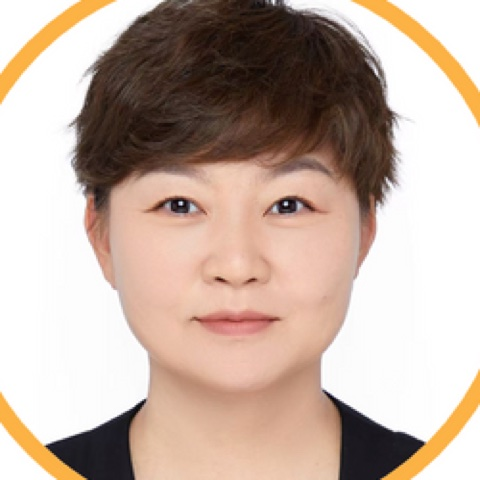
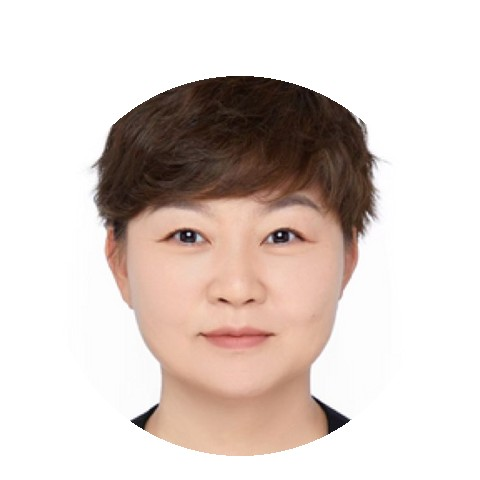
Leadership: portraits sit lower in frame, bios and personal emails updated

diff --git a/dist/company/leadership.html b/dist/company/leadership.html
@@ -1,1 +1,1 @@
-<!DOCTYPE html><html lang="en"><head><meta charset="utf-8"><meta name="viewport" content="width=device-width, initial-scale=1"><title>Leadership | NextGenergy – Prefabricated liquid cooling and field services for AI data centres</title><meta name="description" content="The people responsible for NextGenergy's work."><link rel="canonical" href="https://nextgenergy.ai/company/leadership"><!-- Google Analytics 4 with Consent Mode: analytics storage denied until the visitor accepts (see /google-analytics.js and /company/privacy) --><link rel="stylesheet" href="/google-analytics.css"><script src="/google-analytics.js"></script><script async src="https://www.googletagmanager.com/gtag/js?id=G-SQ8WX1BMRW"></script><link rel="icon" href="/favicon.png" type="image/png"><link rel="apple-touch-icon" href="/brand/emblem-512.png"><meta property="og:image" content="/brand/emblem-512.png"><link rel="alternate" type="application/rss+xml" title="NextGenergy Insights" href="/insights/rss.xml"><meta property="og:site_name" content="NextGenergy"><meta property="og:title" content="Leadership | NextGenergy – Prefabricated liquid cooling and field services for AI data centres"><meta property="og:description" content="The people responsible for NextGenergy's work."><meta property="og:type" content="website"><meta property="og:url" content="https://nextgenergy.ai/company/leadership"><meta name="twitter:card" content="summary_large_image"><script type="application/ld+json">{"@context":"https://schema.org","@graph":[{"@type":"Organization","@id":"https://nextgenergy.ai/#org","name":"NextGenergy","legalName":"NextGenergy Technology Inc.","url":"https://nextgenergy.ai/","logo":"https://nextgenergy.ai/brand/emblem-512.png","description":"Prefabricated Liquid Cooling and Field Services for AI Data Centres","foundingDate":"2025","address":{"@type":"PostalAddress","addressLocality":"Toronto","addressRegion":"ON","addressCountry":"CA"},"email":"sales@nextgenergy.ai","founder":{"@type":"Person","name":"Jim Li","jobTitle":"Founder & CEO","sameAs":["https://www.linkedin.com/in/junming-li-liquid-cooling/"]},"sameAs":["https://www.linkedin.com/company/nextgenergy","https://everywattcounts.substack.com","https://tsingchain.ai"],"knowsAbout":["liquid cooling","direct-to-chip cooling","coolant distribution unit","data centre heat reuse","return-water grade","commissioning"]},{"@type":"WebSite","@id":"https://nextgenergy.ai/#website","url":"https://nextgenergy.ai/","name":"NextGenergy","publisher":{"@id":"https://nextgenergy.ai/#org"},"inLanguage":"en"},{"@type":"WebPage","@id":"https://nextgenergy.ai/company/leadership","url":"https://nextgenergy.ai/company/leadership","name":"Leadership | NextGenergy – Prefabricated liquid cooling and field services for AI data centres","description":"The people responsible for NextGenergy's work.","isPartOf":{"@id":"https://nextgenergy.ai/#website"},"inLanguage":"en"},{"@type":"Person","@id":"https://nextgenergy.ai/company/leadership#jim-li","name":"Jim Li","jobTitle":"Founder & Chief Executive Officer","description":"Jim founded NextGenergy to move AI data centres beyond single-point equipment optimisation toward integrated system design across power, liquid cooling and heat recovery. He is co-founder and vice president of Tsingchain Technology (Beijing), where he built and operated immersion and direct-to-chip liquid-cooled compute whose recovered heat was delivered into district heating, greenhouses and aquaculture. Earlier he was a senior product manager at Baidu. He holds an MBA and a bachelor's degree in international economics and trade, writes Every Watt Counts, reviews open liquid-cooling specifications, and is the author of the three-clock model and the ten leak points.","worksFor":{"@id":"https://nextgenergy.ai/#org"},"image":"https://nextgenergy.ai/team/jim-li.jpg","sameAs":["https://www.linkedin.com/in/junming-li-liquid-cooling/"],"url":"https://nextgenergy.ai/company/leadership"},{"@type":"Person","@id":"https://nextgenergy.ai/company/leadership#chenli-wang","name":"Chenli Wang","jobTitle":"Chief Strategy Officer","description":"Chenli leads strategy, partnerships and commercial operations, including the off-take side of heat-reuse projects: identifying heat buyers, structuring supply agreements and aligning them with the return-water grade the plant is designed for. She brings nineteen years of general and operational management, most recently in enterprise IT product management at Anhui Shangxin Information Technology, and holds an MBA.","worksFor":{"@id":"https://nextgenergy.ai/#org"},"image":"https://nextgenergy.ai/team/chenli-wang.jpg","url":"https://nextgenergy.ai/company/leadership"},{"@type":"Person","@id":"https://nextgenergy.ai/company/leadership#richard-li","name":"Richard Li","jobTitle":"Chief Business Development Officer","description":"Richard leads business development: the operator, developer and channel relationships behind NextGenergy's North American projects, and the qualification of the ones where the whole thermal path — not a single component — is what the customer actually needs. He brings twenty-five years of business development and IT management, including head of the AI business unit at NXAI, sales director at VideoSky and country manager for Vidyo in China. He holds a bachelor's degree in automation and control.","worksFor":{"@id":"https://nextgenergy.ai/#org"},"image":"https://nextgenergy.ai/team/richard-li.jpg","url":"https://nextgenergy.ai/company/leadership"},{"@type":"Person","@id":"https://nextgenergy.ai/company/leadership#hui-wang","name":"Hui Wang","jobTitle":"Technical Director","description":"Hui is responsible for the engineering judgement behind NextGenergy's thermal designs: coolant selection, approach temperature and the boundaries between cold plate, CDU and facility water. He founded Tsingchain Technology (Beijing) in 2018, among the earliest Chinese companies to commercialise server liquid cooling, and chairs it today. He is a named inventor on a utility model patent for a server liquid-cooling cabinet and led the research behind three more, covering scalable liquid-cooled containers, heat-dissipation cabinets and modular cooling systems. At Tsingchain he directed the development of immersion and direct-to-chip systems and the waste-heat programme that routed recovered heat into district heating, greenhouses and aquaculture. He writes on liquid cooling for the data centre industry and holds an M.S. in agricultural soil and water engineering from Shenyang Agricultural University.","worksFor":{"@id":"https://nextgenergy.ai/#org"},"image":"https://nextgenergy.ai/team/hui-wang.jpg","url":"https://nextgenergy.ai/company/leadership"}]}</script><link rel="stylesheet" href="/_astro/Base.v_1ulaOs.css"><link rel="stylesheet" href="/_astro/leadership.CnbI60Xh.css"></head><body><a class="skip" href="#main">Skip to main content</a><header class="hdr"><div class="wrap"><a href="/" class="brand" aria-label="NextGenergy home"><img src="/brand/logo.png" alt="NextGenergy" width="1380" height="470"></a><nav class="nav" aria-label="Primary"><a href="/platform">Products</a><a href="/services">Field services</a><a href="/solutions">Solutions</a><a href="/evidence" class="star">Evidence</a><a href="/approach">Approach</a><a href="/tools">Tools</a><a href="/insights">Insights</a><a href="/company/about" aria-current="page">Company</a></nav><a href="/company/contact" class="btn hdr-cta">Talk to our team</a><button class="menu-btn" aria-expanded="false" aria-controls="mnav" data-menu>Menu</button></div><div class="mnav" id="mnav"><div class="wrap"><a href="/platform">Products</a><a href="/services">Field services</a><a href="/solutions">Solutions</a><a href="/evidence" class="star">Evidence</a><a href="/approach">Approach</a><a href="/tools">Tools</a><a href="/insights">Insights</a><a href="/company/about">Company</a><a href="/company/contact">Contact</a></div></div></header><script type="module" src="/_astro/Header.astro_astro_type_script_index_0_lang.DnShHzzy.js"></script><noscript><div class="noscript wrap">This site works without JavaScript except for the interactive tools, the video player and the mobile menu. Navigation links are in the footer.</div></noscript><main id="main" tabindex="-1"><section class="hero"><div class="wrap"><nav class="crumbs" aria-label="Breadcrumb"><a href="/">Home</a><span><a href="/company/about">Company</a></span></nav><div class="eyebrow">Company</div><h1>Leadership</h1><p class="lede">The people responsible for NextGenergy&#39;s work.</p></div></section><section class="section" data-astro-cid-b366cx2r><div class="wrap" data-astro-cid-b366cx2r><article class="person" data-astro-cid-b366cx2r><div class="photo" data-astro-cid-b366cx2r><img src="/team/jim-li.jpg" alt="Portrait of Jim Li" width="480" height="480" loading="eager" data-astro-cid-b366cx2r></div><div data-astro-cid-b366cx2r><h2 style="margin-bottom:0.2rem" data-astro-cid-b366cx2r>Jim Li</h2><p class="eyebrow plain" style="margin:0 0 1rem" data-astro-cid-b366cx2r>Founder &amp; Chief Executive Officer</p><p class="prose" data-astro-cid-b366cx2r>Jim founded NextGenergy to move AI data centres beyond single-point equipment optimisation toward integrated system design across power, liquid cooling and heat recovery. He is co-founder and vice president of Tsingchain Technology (Beijing), where he built and operated immersion and direct-to-chip liquid-cooled compute whose recovered heat was delivered into district heating, greenhouses and aquaculture. Earlier he was a senior product manager at Baidu. He holds an MBA and a bachelor&#39;s degree in international economics and trade, writes Every Watt Counts, reviews open liquid-cooling specifications, and is the author of the three-clock model and the ten leak points.</p><p data-astro-cid-b366cx2r><a href="https://www.linkedin.com/in/junming-li-liquid-cooling/" data-astro-cid-b366cx2r>LinkedIn</a> · <a href="https://everywattcounts.substack.com" data-astro-cid-b366cx2r>Every Watt Counts</a> · <a href="mailto:sales@nextgenergy.ai" data-astro-cid-b366cx2r>sales@nextgenergy.ai</a></p></div></article><article class="person" data-astro-cid-b366cx2r><div class="photo" data-astro-cid-b366cx2r><img src="/team/chenli-wang.jpg" alt="Portrait of Chenli Wang" width="480" height="480" loading="eager" data-astro-cid-b366cx2r></div><div data-astro-cid-b366cx2r><h2 style="margin-bottom:0.2rem" data-astro-cid-b366cx2r>Chenli Wang</h2><p class="eyebrow plain" style="margin:0 0 1rem" data-astro-cid-b366cx2r>Chief Strategy Officer</p><p class="prose" data-astro-cid-b366cx2r>Chenli leads strategy, partnerships and commercial operations, including the off-take side of heat-reuse projects: identifying heat buyers, structuring supply agreements and aligning them with the return-water grade the plant is designed for. She brings nineteen years of general and operational management, most recently in enterprise IT product management at Anhui Shangxin Information Technology, and holds an MBA.</p></div></article><article class="person" data-astro-cid-b366cx2r><div class="photo" data-astro-cid-b366cx2r><img src="/team/richard-li.jpg" alt="Portrait of Richard Li" width="480" height="480" loading="eager" data-astro-cid-b366cx2r></div><div data-astro-cid-b366cx2r><h2 style="margin-bottom:0.2rem" data-astro-cid-b366cx2r>Richard Li</h2><p class="eyebrow plain" style="margin:0 0 1rem" data-astro-cid-b366cx2r>Chief Business Development Officer</p><p class="prose" data-astro-cid-b366cx2r>Richard leads business development: the operator, developer and channel relationships behind NextGenergy&#39;s North American projects, and the qualification of the ones where the whole thermal path — not a single component — is what the customer actually needs. He brings twenty-five years of business development and IT management, including head of the AI business unit at NXAI, sales director at VideoSky and country manager for Vidyo in China. He holds a bachelor&#39;s degree in automation and control.</p></div></article><article class="person" data-astro-cid-b366cx2r><div class="photo" data-astro-cid-b366cx2r><img src="/team/hui-wang.jpg" alt="Portrait of Hui Wang" width="480" height="480" loading="eager" data-astro-cid-b366cx2r></div><div data-astro-cid-b366cx2r><h2 style="margin-bottom:0.2rem" data-astro-cid-b366cx2r>Hui Wang</h2><p class="eyebrow plain" style="margin:0 0 1rem" data-astro-cid-b366cx2r>Technical Director</p><p class="prose" data-astro-cid-b366cx2r>Hui is responsible for the engineering judgement behind NextGenergy&#39;s thermal designs: coolant selection, approach temperature and the boundaries between cold plate, CDU and facility water. He founded Tsingchain Technology (Beijing) in 2018, among the earliest Chinese companies to commercialise server liquid cooling, and chairs it today. He is a named inventor on a utility model patent for a server liquid-cooling cabinet and led the research behind three more, covering scalable liquid-cooled containers, heat-dissipation cabinets and modular cooling systems. At Tsingchain he directed the development of immersion and direct-to-chip systems and the waste-heat programme that routed recovered heat into district heating, greenhouses and aquaculture. He writes on liquid cooling for the data centre industry and holds an M.S. in agricultural soil and water engineering from Shenyang Agricultural University.</p></div></article></div></section></main><footer class="ftr"><div class="wrap"><div class="cols"><div><a href="/" class="brand"><img src="/brand/logo.png" alt="NextGenergy" width="1380" height="470"></a><p style="margin-top:1rem; max-width: 34ch;">Prefabricated liquid cooling for AI data centres: we plan and design the system, deliver skids, CDUs, ORv3 racks and cooling plant, and test, commission and maintain the liquid loop in the field. Every boundary comes with its evidence.</p><p class="small">Toronto, Canada<br><a href="mailto:sales@nextgenergy.ai">sales@nextgenergy.ai</a></p><p class="small"><a href="https://www.linkedin.com/company/nextgenergy">LinkedIn</a> · <a href="https://everywattcounts.substack.com">Every Watt Counts</a> · <a href="/insights/rss.xml">RSS</a></p></div><div><h4>What we do</h4><ul><li><a href="/platform">Products: skids, racks, CDUs, cooling plant</a></li><li><a href="/services/field">Field testing and operations</a></li><li><a href="/solutions">Solutions by project type</a></li><li><a href="/approach">Our approach</a></li></ul></div><div><h4>Evidence</h4><ul><li><a href="/evidence/commissioning">Commissioning criteria</a></li><li><a href="/evidence/turnover">The turnover package</a></li><li><a href="/evidence/leak-points">Ten leak points</a></li><li><a href="/evidence/standards">Standards work</a></li><li><a href="/evidence/canada-principles">Canada&#39;s principles</a></li></ul></div><div><h4>Tools</h4><ul><li><a href="https://sim.nextgenergy.ai">Liquid cooling simulator</a></li><li><a href="/tools/return-water">Return-water → heat buyers</a></li><li><a href="/tools/approach-temp">Approach temperature</a></li><li><a href="/tools/leak-checklist">Turnover self-check</a></li></ul></div><div><h4>Company</h4><ul><li><a href="/company/about">About</a></li><li><a href="/company/leadership">Leadership</a></li><li><a href="/company/partners">Partners</a></li><li><a href="/company/contact">Contact</a></li><li><a href="/company/privacy">Privacy</a></li></ul></div></div><div class="legal"><span>© 2026 NextGenergy Technology Inc. All rights reserved.</span><span><a href="/company/privacy">Privacy</a> · <a href="/company/contact">Contact</a> · <a href="/insights/rss.xml">RSS</a></span></div></div></footer></body></html>
+<!DOCTYPE html><html lang="en"><head><meta charset="utf-8"><meta name="viewport" content="width=device-width, initial-scale=1"><title>Leadership | NextGenergy – Prefabricated liquid cooling and field services for AI data centres</title><meta name="description" content="The people responsible for NextGenergy's work."><link rel="canonical" href="https://nextgenergy.ai/company/leadership"><!-- Google Analytics 4 with Consent Mode: analytics storage denied until the visitor accepts (see /google-analytics.js and /company/privacy) --><link rel="stylesheet" href="/google-analytics.css"><script src="/google-analytics.js"></script><script async src="https://www.googletagmanager.com/gtag/js?id=G-SQ8WX1BMRW"></script><link rel="icon" href="/favicon.png" type="image/png"><link rel="apple-touch-icon" href="/brand/emblem-512.png"><meta property="og:image" content="/brand/emblem-512.png"><link rel="alternate" type="application/rss+xml" title="NextGenergy Insights" href="/insights/rss.xml"><meta property="og:site_name" content="NextGenergy"><meta property="og:title" content="Leadership | NextGenergy – Prefabricated liquid cooling and field services for AI data centres"><meta property="og:description" content="The people responsible for NextGenergy's work."><meta property="og:type" content="website"><meta property="og:url" content="https://nextgenergy.ai/company/leadership"><meta name="twitter:card" content="summary_large_image"><script type="application/ld+json">{"@context":"https://schema.org","@graph":[{"@type":"Organization","@id":"https://nextgenergy.ai/#org","name":"NextGenergy","legalName":"NextGenergy Technology Inc.","url":"https://nextgenergy.ai/","logo":"https://nextgenergy.ai/brand/emblem-512.png","description":"Prefabricated Liquid Cooling and Field Services for AI Data Centres","foundingDate":"2025","address":{"@type":"PostalAddress","addressLocality":"Toronto","addressRegion":"ON","addressCountry":"CA"},"email":"sales@nextgenergy.ai","founder":{"@type":"Person","name":"Jim Li","jobTitle":"Founder & CEO","sameAs":["https://www.linkedin.com/in/junming-li-liquid-cooling/"]},"sameAs":["https://www.linkedin.com/company/nextgenergy","https://everywattcounts.substack.com","https://tsingchain.ai"],"knowsAbout":["liquid cooling","direct-to-chip cooling","coolant distribution unit","data centre heat reuse","return-water grade","commissioning"]},{"@type":"WebSite","@id":"https://nextgenergy.ai/#website","url":"https://nextgenergy.ai/","name":"NextGenergy","publisher":{"@id":"https://nextgenergy.ai/#org"},"inLanguage":"en"},{"@type":"WebPage","@id":"https://nextgenergy.ai/company/leadership","url":"https://nextgenergy.ai/company/leadership","name":"Leadership | NextGenergy – Prefabricated liquid cooling and field services for AI data centres","description":"The people responsible for NextGenergy's work.","isPartOf":{"@id":"https://nextgenergy.ai/#website"},"inLanguage":"en"},{"@type":"Person","@id":"https://nextgenergy.ai/company/leadership#jim-li","name":"Jim Li","jobTitle":"Founder & Chief Executive Officer","description":"Jim founded NextGenergy to move AI data centres beyond single-point equipment optimisation toward integrated system design across power, liquid cooling and heat recovery. He is co-founder and vice president of Tsingchain Technology (Beijing), where he built and operated immersion and direct-to-chip liquid-cooled compute whose recovered heat was delivered into district heating, greenhouses and aquaculture. Earlier he was a senior product manager at Baidu. He holds an MBA and a bachelor's degree in international economics and trade, writes Every Watt Counts, reviews open liquid-cooling specifications, and is the author of the three-clock model and the ten leak points.","worksFor":{"@id":"https://nextgenergy.ai/#org"},"image":"https://nextgenergy.ai/team/jim-li.jpg","sameAs":["https://www.linkedin.com/in/junming-li-liquid-cooling/"],"url":"https://nextgenergy.ai/company/leadership"},{"@type":"Person","@id":"https://nextgenergy.ai/company/leadership#chenli-wang","name":"Chenli Wang","jobTitle":"Chief Strategy Officer","description":"Chenli leads strategy, partnerships and commercial operations, including the off-take side of heat-reuse projects: identifying heat buyers, structuring supply agreements and aligning them with the return-water grade the plant is designed for. She brings twenty years of general and operational management, most recently in enterprise IT product management at Anhui Shangxin Information Technology, and holds an MBA.","worksFor":{"@id":"https://nextgenergy.ai/#org"},"image":"https://nextgenergy.ai/team/chenli-wang.jpg","url":"https://nextgenergy.ai/company/leadership"},{"@type":"Person","@id":"https://nextgenergy.ai/company/leadership#richard-li","name":"Richard Li","jobTitle":"Chief Business Development Officer","description":"Richard leads business development: the operator, developer and channel relationships behind NextGenergy's North American projects, and the qualification of the ones where the whole thermal path — not a single component — is what the customer actually needs. He brings twenty-five years of experience and expertise in ICT business development and management, including head of the AI business unit at NXAI, country manager for Vidyo in China and general manager of the VBU at Avaya China. He holds a bachelor's degree in automation control from CSU.","worksFor":{"@id":"https://nextgenergy.ai/#org"},"image":"https://nextgenergy.ai/team/richard-li.jpg","url":"https://nextgenergy.ai/company/leadership"},{"@type":"Person","@id":"https://nextgenergy.ai/company/leadership#hui-wang","name":"Hui Wang","jobTitle":"Technical Director","description":"Hui is responsible for the engineering judgement behind NextGenergy's thermal designs: coolant selection, approach temperature and the boundaries between cold plate, CDU and facility water. He founded Tsingchain Technology (Beijing) in 2018, among the earliest Chinese companies to commercialise server liquid cooling, and chairs it today. He is a named inventor on a utility model patent for a server liquid-cooling cabinet and led the research behind three more, covering scalable liquid-cooled containers, heat-dissipation cabinets and modular cooling systems. At Tsingchain he directed the development of immersion and direct-to-chip systems and the waste-heat programme that routed recovered heat into district heating, greenhouses and aquaculture. He writes on liquid cooling for the data centre industry and holds an M.S. in agricultural soil and water engineering from Shenyang Agricultural University.","worksFor":{"@id":"https://nextgenergy.ai/#org"},"image":"https://nextgenergy.ai/team/hui-wang.jpg","url":"https://nextgenergy.ai/company/leadership"}]}</script><link rel="stylesheet" href="/_astro/Base.v_1ulaOs.css"><link rel="stylesheet" href="/_astro/leadership.C1PUZBno.css"></head><body><a class="skip" href="#main">Skip to main content</a><header class="hdr"><div class="wrap"><a href="/" class="brand" aria-label="NextGenergy home"><img src="/brand/logo.png" alt="NextGenergy" width="1380" height="470"></a><nav class="nav" aria-label="Primary"><a href="/platform">Products</a><a href="/services">Field services</a><a href="/solutions">Solutions</a><a href="/evidence" class="star">Evidence</a><a href="/approach">Approach</a><a href="/tools">Tools</a><a href="/insights">Insights</a><a href="/company/about" aria-current="page">Company</a></nav><a href="/company/contact" class="btn hdr-cta">Talk to our team</a><button class="menu-btn" aria-expanded="false" aria-controls="mnav" data-menu>Menu</button></div><div class="mnav" id="mnav"><div class="wrap"><a href="/platform">Products</a><a href="/services">Field services</a><a href="/solutions">Solutions</a><a href="/evidence" class="star">Evidence</a><a href="/approach">Approach</a><a href="/tools">Tools</a><a href="/insights">Insights</a><a href="/company/about">Company</a><a href="/company/contact">Contact</a></div></div></header><script type="module" src="/_astro/Header.astro_astro_type_script_index_0_lang.DnShHzzy.js"></script><noscript><div class="noscript wrap">This site works without JavaScript except for the interactive tools, the video player and the mobile menu. Navigation links are in the footer.</div></noscript><main id="main" tabindex="-1"><section class="hero"><div class="wrap"><nav class="crumbs" aria-label="Breadcrumb"><a href="/">Home</a><span><a href="/company/about">Company</a></span></nav><div class="eyebrow">Company</div><h1>Leadership</h1><p class="lede">The people responsible for NextGenergy&#39;s work.</p></div></section><section class="section" data-astro-cid-b366cx2r><div class="wrap" data-astro-cid-b366cx2r><article class="person" data-astro-cid-b366cx2r><div class="photo" data-astro-cid-b366cx2r><img src="/team/jim-li.jpg" alt="Portrait of Jim Li" width="480" height="480" loading="eager" data-astro-cid-b366cx2r></div><div data-astro-cid-b366cx2r><h2 style="margin-bottom:0.2rem" data-astro-cid-b366cx2r>Jim Li</h2><p class="eyebrow plain" style="margin:0 0 1rem" data-astro-cid-b366cx2r>Founder &amp; Chief Executive Officer</p><p class="prose" data-astro-cid-b366cx2r>Jim founded NextGenergy to move AI data centres beyond single-point equipment optimisation toward integrated system design across power, liquid cooling and heat recovery. He is co-founder and vice president of Tsingchain Technology (Beijing), where he built and operated immersion and direct-to-chip liquid-cooled compute whose recovered heat was delivered into district heating, greenhouses and aquaculture. Earlier he was a senior product manager at Baidu. He holds an MBA and a bachelor&#39;s degree in international economics and trade, writes Every Watt Counts, reviews open liquid-cooling specifications, and is the author of the three-clock model and the ten leak points.</p><p class="links" data-astro-cid-b366cx2r><a href="https://www.linkedin.com/in/junming-li-liquid-cooling/" data-astro-cid-b366cx2r>LinkedIn</a> · <a href="https://everywattcounts.substack.com" data-astro-cid-b366cx2r>Every Watt Counts</a> · <a href="mailto:jim.li@nextgenergy.ai" data-astro-cid-b366cx2r>jim.li@nextgenergy.ai</a></p></div></article><article class="person" data-astro-cid-b366cx2r><div class="photo" data-astro-cid-b366cx2r><img src="/team/chenli-wang.jpg" alt="Portrait of Chenli Wang" width="480" height="480" loading="eager" data-astro-cid-b366cx2r></div><div data-astro-cid-b366cx2r><h2 style="margin-bottom:0.2rem" data-astro-cid-b366cx2r>Chenli Wang</h2><p class="eyebrow plain" style="margin:0 0 1rem" data-astro-cid-b366cx2r>Chief Strategy Officer</p><p class="prose" data-astro-cid-b366cx2r>Chenli leads strategy, partnerships and commercial operations, including the off-take side of heat-reuse projects: identifying heat buyers, structuring supply agreements and aligning them with the return-water grade the plant is designed for. She brings twenty years of general and operational management, most recently in enterprise IT product management at Anhui Shangxin Information Technology, and holds an MBA.</p><p class="links" data-astro-cid-b366cx2r><a href="mailto:chenliwang@nextgenergy.ai" data-astro-cid-b366cx2r>chenliwang@nextgenergy.ai</a></p></div></article><article class="person" data-astro-cid-b366cx2r><div class="photo" data-astro-cid-b366cx2r><img src="/team/richard-li.jpg" alt="Portrait of Richard Li" width="480" height="480" loading="eager" data-astro-cid-b366cx2r></div><div data-astro-cid-b366cx2r><h2 style="margin-bottom:0.2rem" data-astro-cid-b366cx2r>Richard Li</h2><p class="eyebrow plain" style="margin:0 0 1rem" data-astro-cid-b366cx2r>Chief Business Development Officer</p><p class="prose" data-astro-cid-b366cx2r>Richard leads business development: the operator, developer and channel relationships behind NextGenergy&#39;s North American projects, and the qualification of the ones where the whole thermal path — not a single component — is what the customer actually needs. He brings twenty-five years of experience and expertise in ICT business development and management, including head of the AI business unit at NXAI, country manager for Vidyo in China and general manager of the VBU at Avaya China. He holds a bachelor&#39;s degree in automation control from CSU.</p><p class="links" data-astro-cid-b366cx2r><a href="mailto:RichardL@nextgenergy.ai" data-astro-cid-b366cx2r>RichardL@nextgenergy.ai</a></p></div></article><article class="person" data-astro-cid-b366cx2r><div class="photo" data-astro-cid-b366cx2r><img src="/team/hui-wang.jpg" alt="Portrait of Hui Wang" width="480" height="480" loading="eager" data-astro-cid-b366cx2r></div><div data-astro-cid-b366cx2r><h2 style="margin-bottom:0.2rem" data-astro-cid-b366cx2r>Hui Wang</h2><p class="eyebrow plain" style="margin:0 0 1rem" data-astro-cid-b366cx2r>Technical Director</p><p class="prose" data-astro-cid-b366cx2r>Hui is responsible for the engineering judgement behind NextGenergy&#39;s thermal designs: coolant selection, approach temperature and the boundaries between cold plate, CDU and facility water. He founded Tsingchain Technology (Beijing) in 2018, among the earliest Chinese companies to commercialise server liquid cooling, and chairs it today. He is a named inventor on a utility model patent for a server liquid-cooling cabinet and led the research behind three more, covering scalable liquid-cooled containers, heat-dissipation cabinets and modular cooling systems. At Tsingchain he directed the development of immersion and direct-to-chip systems and the waste-heat programme that routed recovered heat into district heating, greenhouses and aquaculture. He writes on liquid cooling for the data centre industry and holds an M.S. in agricultural soil and water engineering from Shenyang Agricultural University.</p></div></article></div></section></main><footer class="ftr"><div class="wrap"><div class="cols"><div><a href="/" class="brand"><img src="/brand/logo.png" alt="NextGenergy" width="1380" height="470"></a><p style="margin-top:1rem; max-width: 34ch;">Prefabricated liquid cooling for AI data centres: we plan and design the system, deliver skids, CDUs, ORv3 racks and cooling plant, and test, commission and maintain the liquid loop in the field. Every boundary comes with its evidence.</p><p class="small">Toronto, Canada<br><a href="mailto:sales@nextgenergy.ai">sales@nextgenergy.ai</a></p><p class="small"><a href="https://www.linkedin.com/company/nextgenergy">LinkedIn</a> · <a href="https://everywattcounts.substack.com">Every Watt Counts</a> · <a href="/insights/rss.xml">RSS</a></p></div><div><h4>What we do</h4><ul><li><a href="/platform">Products: skids, racks, CDUs, cooling plant</a></li><li><a href="/services/field">Field testing and operations</a></li><li><a href="/solutions">Solutions by project type</a></li><li><a href="/approach">Our approach</a></li></ul></div><div><h4>Evidence</h4><ul><li><a href="/evidence/commissioning">Commissioning criteria</a></li><li><a href="/evidence/turnover">The turnover package</a></li><li><a href="/evidence/leak-points">Ten leak points</a></li><li><a href="/evidence/standards">Standards work</a></li><li><a href="/evidence/canada-principles">Canada&#39;s principles</a></li></ul></div><div><h4>Tools</h4><ul><li><a href="https://sim.nextgenergy.ai">Liquid cooling simulator</a></li><li><a href="/tools/return-water">Return-water → heat buyers</a></li><li><a href="/tools/approach-temp">Approach temperature</a></li><li><a href="/tools/leak-checklist">Turnover self-check</a></li></ul></div><div><h4>Company</h4><ul><li><a href="/company/about">About</a></li><li><a href="/company/leadership">Leadership</a></li><li><a href="/company/partners">Partners</a></li><li><a href="/company/contact">Contact</a></li><li><a href="/company/privacy">Privacy</a></li></ul></div></div><div class="legal"><span>© 2026 NextGenergy Technology Inc. All rights reserved.</span><span><a href="/company/privacy">Privacy</a> · <a href="/company/contact">Contact</a> · <a href="/insights/rss.xml">RSS</a></span></div></div></footer></body></html>

diff --git a/src/data/team.ts b/src/data/team.ts
@@ -1,12 +1,12 @@
 /** Leadership roster. Used by /company/leadership, its Person JSON-LD and /llms-full.txt. */
-export interface Person { name: string; role: string; linkedin: string; photo: string; bio: string }
+export interface Person { name: string; role: string; linkedin: string; email?: string; photo: string; bio: string }
 export const people: Person[] = [
-  { name: 'Jim Li', role: 'Founder & Chief Executive Officer', linkedin: 'https://www.linkedin.com/in/junming-li-liquid-cooling/', photo: '/team/jim-li.jpg',
+  { name: 'Jim Li', role: 'Founder & Chief Executive Officer', linkedin: 'https://www.linkedin.com/in/junming-li-liquid-cooling/', email: 'jim.li@nextgenergy.ai', photo: '/team/jim-li.jpg',
     bio: 'Jim founded NextGenergy to move AI data centres beyond single-point equipment optimisation toward integrated system design across power, liquid cooling and heat recovery. He is co-founder and vice president of Tsingchain Technology (Beijing), where he built and operated immersion and direct-to-chip liquid-cooled compute whose recovered heat was delivered into district heating, greenhouses and aquaculture. Earlier he was a senior product manager at Baidu. He holds an MBA and a bachelor\'s degree in international economics and trade, writes Every Watt Counts, reviews open liquid-cooling specifications, and is the author of the three-clock model and the ten leak points.' },
-  { name: 'Chenli Wang', role: 'Chief Strategy Officer', linkedin: '', photo: '/team/chenli-wang.jpg',
-    bio: 'Chenli leads strategy, partnerships and commercial operations, including the off-take side of heat-reuse projects: identifying heat buyers, structuring supply agreements and aligning them with the return-water grade the plant is designed for. She brings nineteen years of general and operational management, most recently in enterprise IT product management at Anhui Shangxin Information Technology, and holds an MBA.' },
-  { name: 'Richard Li', role: 'Chief Business Development Officer', linkedin: '', photo: '/team/richard-li.jpg',
-    bio: 'Richard leads business development: the operator, developer and channel relationships behind NextGenergy\'s North American projects, and the qualification of the ones where the whole thermal path — not a single component — is what the customer actually needs. He brings twenty-five years of business development and IT management, including head of the AI business unit at NXAI, sales director at VideoSky and country manager for Vidyo in China. He holds a bachelor\'s degree in automation and control.' },
+  { name: 'Chenli Wang', role: 'Chief Strategy Officer', linkedin: '', email: 'chenliwang@nextgenergy.ai', photo: '/team/chenli-wang.jpg',
+    bio: 'Chenli leads strategy, partnerships and commercial operations, including the off-take side of heat-reuse projects: identifying heat buyers, structuring supply agreements and aligning them with the return-water grade the plant is designed for. She brings twenty years of general and operational management, most recently in enterprise IT product management at Anhui Shangxin Information Technology, and holds an MBA.' },
+  { name: 'Richard Li', role: 'Chief Business Development Officer', linkedin: '', email: 'RichardL@nextgenergy.ai', photo: '/team/richard-li.jpg',
+    bio: 'Richard leads business development: the operator, developer and channel relationships behind NextGenergy\'s North American projects, and the qualification of the ones where the whole thermal path — not a single component — is what the customer actually needs. He brings twenty-five years of experience and expertise in ICT business development and management, including head of the AI business unit at NXAI, country manager for Vidyo in China and general manager of the VBU at Avaya China. He holds a bachelor\'s degree in automation control from CSU.' },
   { name: 'Hui Wang', role: 'Technical Director', linkedin: '', photo: '/team/hui-wang.jpg',
     bio: 'Hui is responsible for the engineering judgement behind NextGenergy\'s thermal designs: coolant selection, approach temperature and the boundaries between cold plate, CDU and facility water. He founded Tsingchain Technology (Beijing) in 2018, among the earliest Chinese companies to commercialise server liquid cooling, and chairs it today. He is a named inventor on a utility model patent for a server liquid-cooling cabinet and led the research behind three more, covering scalable liquid-cooled containers, heat-dissipation cabinets and modular cooling systems. At Tsingchain he directed the development of immersion and direct-to-chip systems and the waste-heat programme that routed recovered heat into district heating, greenhouses and aquaculture. He writes on liquid cooling for the data centre industry and holds an M.S. in agricultural soil and water engineering from Shenyang Agricultural University.' },
 ];

diff --git a/dist/_astro/leadership.C1PUZBno.css b/dist/_astro/leadership.C1PUZBno.css
@@ -1,0 +1,1 @@
+.person[data-astro-cid-b366cx2r]{grid-template-columns:1fr;gap:2rem;max-width:900px;display:grid}@media (width>=700px){.person[data-astro-cid-b366cx2r]{grid-template-columns:220px 1fr}}.photo[data-astro-cid-b366cx2r]{aspect-ratio:1;background:var(--white);border:1px solid var(--line);border-radius:50%;width:220px;overflow:hidden}.photo[data-astro-cid-b366cx2r] img[data-astro-cid-b366cx2r]{object-fit:cover;color:#0000;width:100%;height:100%}.person[data-astro-cid-b366cx2r]+.person[data-astro-cid-b366cx2r]{margin-top:3rem}
